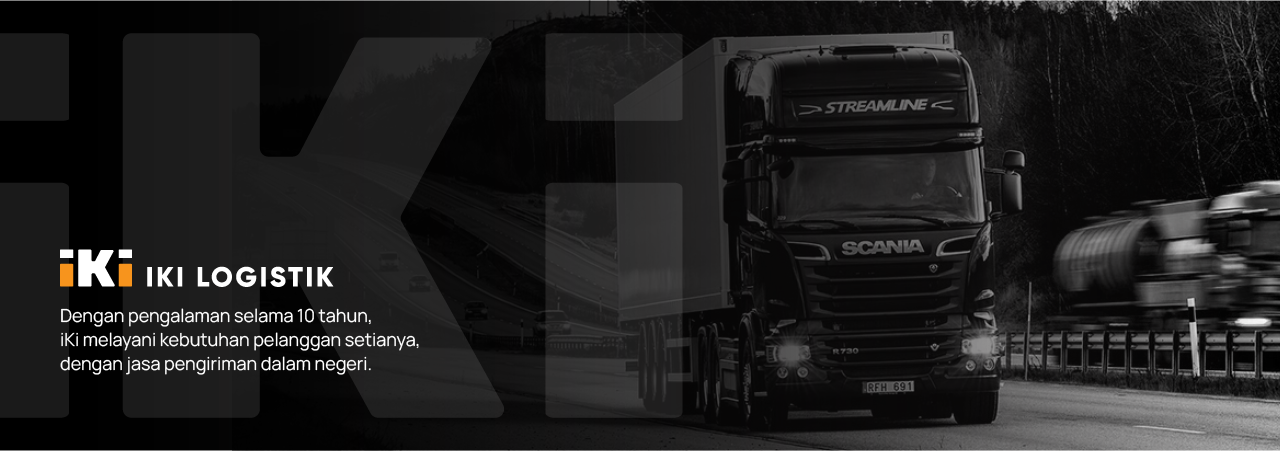
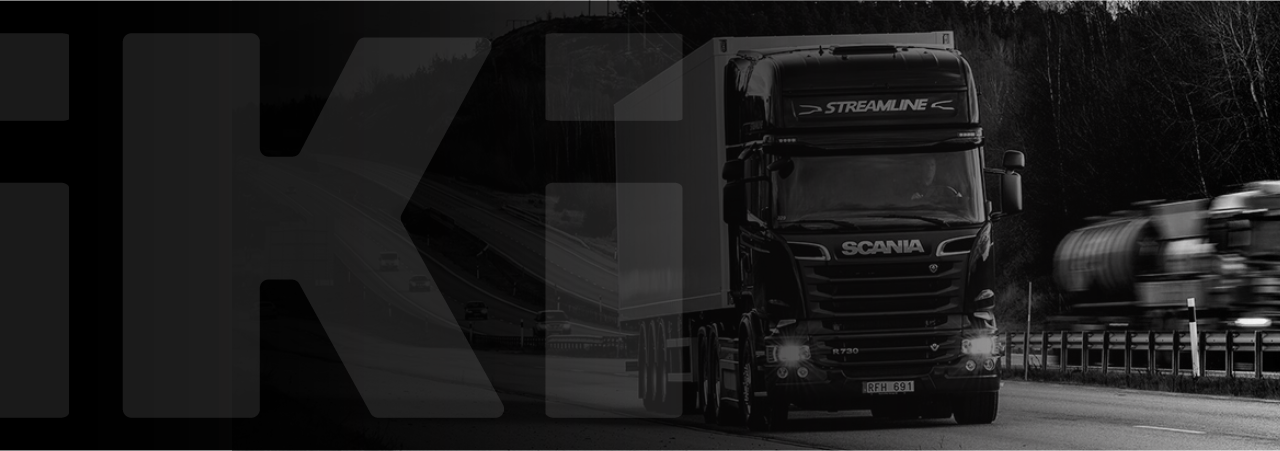
edit deh

Changed region(s): [[0.0312, 0.745, 0.3438, 0.8381], [0.0312, 0.5277, 0.2812, 0.6519], [0.0312, 0.6829, 0.2812, 0.714]]

diff --git a/index.html b/index.html
@@ -6,7 +6,7 @@
   <title>iKi Logistik - Pengiriman Paket Secepat iKilat</title>
   <link href="https://fonts.googleapis.com/css2?family=Poppins:ital,wght@0,400;0,500;0,600;0,700;1,400;1,500;1,600;1,700&display=swap" rel="stylesheet"> 
   <link rel="stylesheet" href="assets/css/style.css">
-  <link rel="shortcut icon" href="assets/icon/icon-02.png" type="image/x-icon">
+  <link rel="shortcut icon" href="assets/icon/icon.png" type="image/x-icon">
 </head>
 <body id="top">
 <!-- Start Navigasi Bar -->
@@ -15,7 +15,7 @@
     <div class="row a-center">
       <div class="nav-logo">
         <a href="#">
-          <img src="assets/img/brand-03.png" alt="Logo iKi" id="brand">
+          <img src="assets/img/brand.png" alt="Logo iKi" id="brand">
         </a>
       </div>
       <div class="nav-menu">
@@ -33,7 +33,7 @@
 <!-- Start Header Hero -->
 <header class="header_hero">
   <!-- Gambar hero disini -->
-  <img src="assets/img/banner2-02.png" class="img-full header_hero_img" alt="Banner iKi Logistik">
+  <img src="assets/img/banner.png" class="img-full header_hero_img" alt="Banner iKi Logistik">
   <div class="container">
     <div class="p-relative">
       <div class="hero_content p-absolute col-6">
